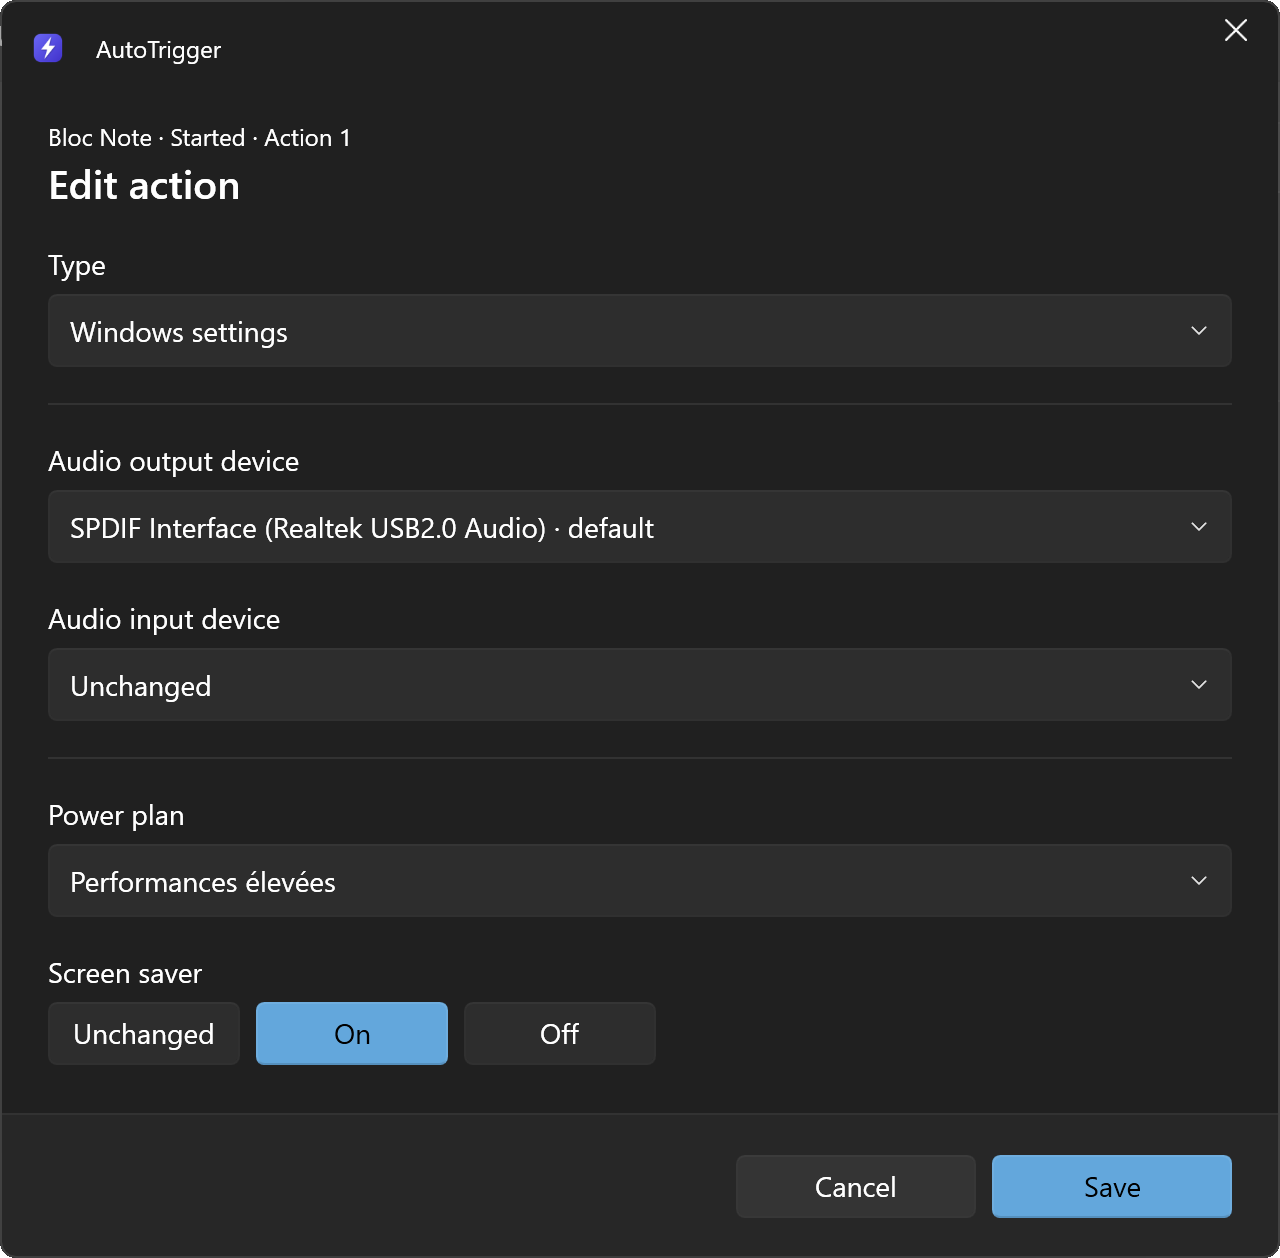
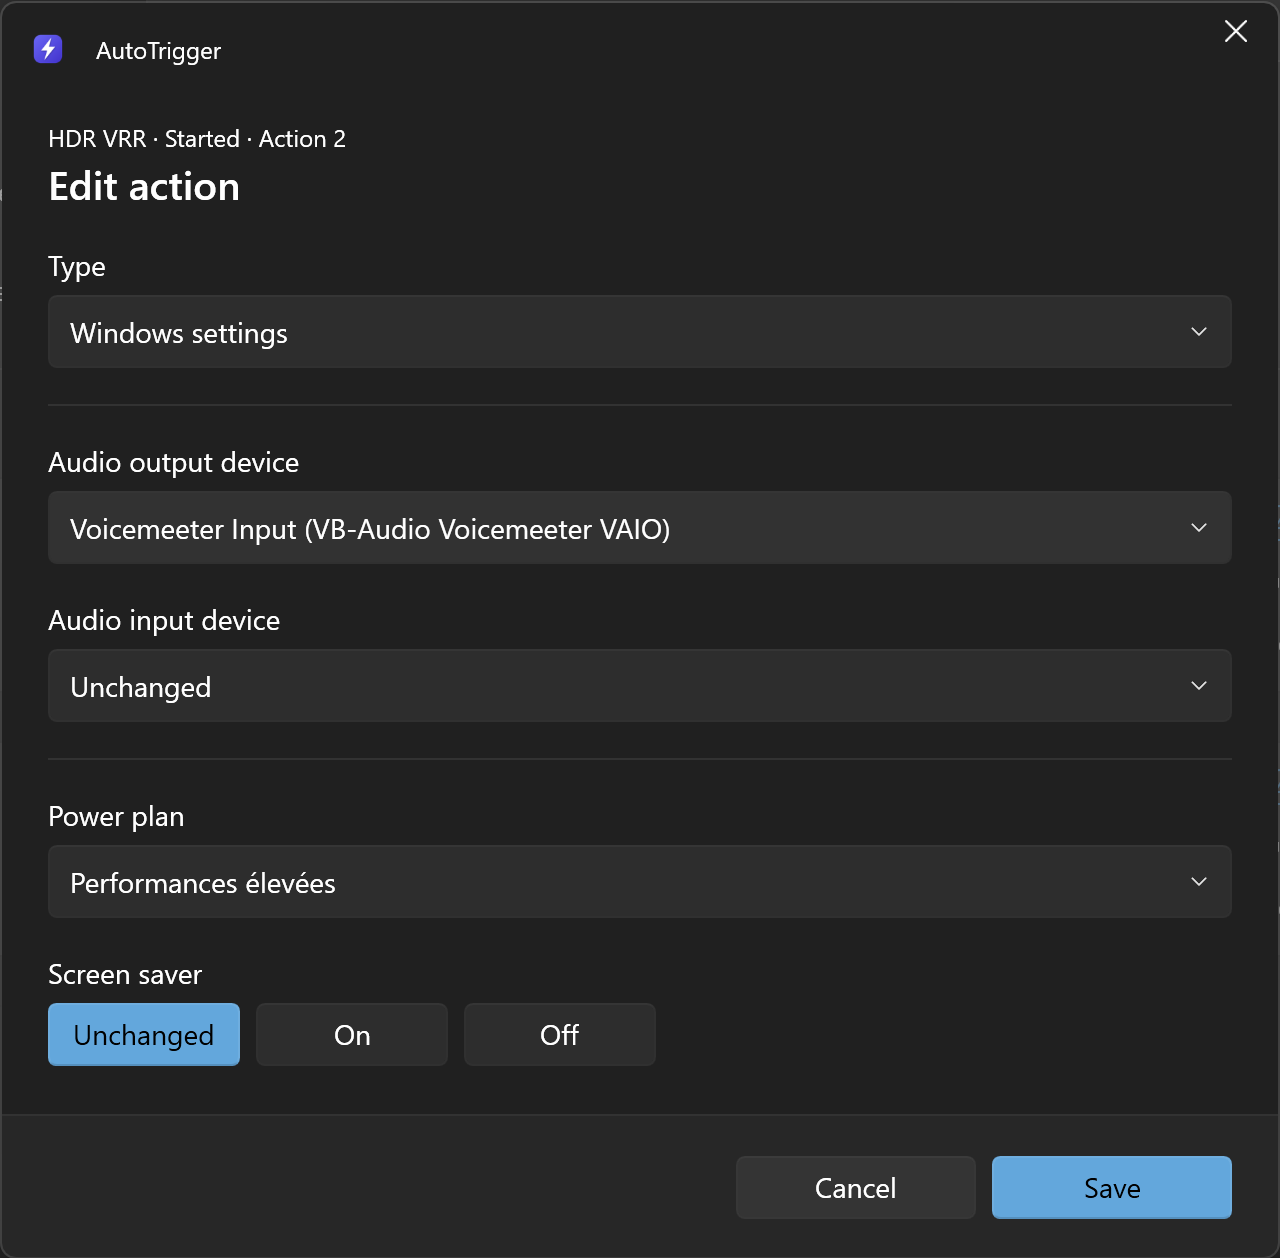
README: use cases, how actions run, FAQ, 1.4.0 screenshots

diff --git a/README.md b/README.md
@@ -1,17 +1,33 @@
 # AutoTrigger
 
-A Windows tray app that runs actions when an application starts, closes, gains or loses focus: switch HDR, change the resolution or refresh rate, pick the audio devices, change the power plan, run or close programs, or press a keyboard shortcut.
+**Automatic HDR, resolution, refresh rate and audio switching per game or app on Windows 10 and 11.**
 
-Inspired by [AutoActions](https://github.com/Codectory/AutoActions) by Codectory. Independent rewrite, not affiliated with Codectory or NVIDIA.
+AutoTrigger is a free, open-source tray app that changes Windows settings when a game or app starts, and sets them back when it closes. Turn HDR on for a game and off on the desktop, change the resolution or refresh rate, switch the default audio device, change the power plan, start or close other programs, or press a keyboard shortcut of another app.
+
+**An AutoActions alternative**: it imports the applications, profiles and displays of AutoActions in one step. Inspired by [AutoActions](https://github.com/Codectory/AutoActions) by Codectory; independent rewrite, not affiliated with Codectory or NVIDIA.
+
+<img src="images/profiles.png" alt="AutoTrigger Profiles page: a profile that turns HDR on with its Started actions and off with its Closed actions, each action with its delay">
+
+## Use cases
+
+- Turn HDR on automatically when a game starts, and off when it closes.
+- Use a different resolution or refresh rate for games and for the desktop, DSR and DLDSR included.
+- Switch the default audio output or input per game or app, for example to a headset.
+- Use the High performance power plan while a game, a video encoder or a 3D app runs, and a power saving plan afterwards.
+- Turn the screen saver off for games played with a controller.
+- Start helper programs before a game or app and close them after it.
+- Change settings when an app gains the focus, and set them back when you switch to another window.
+- Press a keyboard shortcut of another app when a game starts, for example to switch a mode in an overlay or a recording app.
+- Run the actions of a profile on demand, from a keyboard shortcut or a desktop shortcut, without waiting for an app to start.
 
 ## Features
 
 - Four events per application: Started, Closed, Gained focus, Lost focus.
 - Actions, each with its own delay:
   - **Display**: HDR, resolution, refresh rate and, on NVIDIA, color depth, format and range. Works with DSR and DLDSR.
-  - **Windows settings**: default audio output and input devices, power plan, and screen saver on or off for games played with a controller.
-  - **Run program**, with an option to hide the console window of command-line tools and scripts, and **Close program**.
-  - **Hotkey**: presses a keyboard shortcut of another program, such as an RTSS overlay.
+  - **Windows settings**: default audio output and input devices, power plan, and screen saver on or off.
+  - **Run program**, with options to hold the next actions until it finishes and to hide the console window of command-line tools and scripts, and **Close program**.
+  - **Hotkey**: presses a keyboard shortcut of another app.
   - **Reference profile**: reuses the actions of another profile.
 - An optional name for Run program, Close program and Hotkey actions, shown on the action card and in the log.
 - Shared profiles, a monitoring switch per application and a global pause.
@@ -22,19 +38,69 @@ Inspired by [AutoActions](https://github.com/Codectory/AutoActions) by Codectory
 - Update check: a link at the bottom of the window and a dot on the tray icon when a new version is out.
 - About 0.06 % of one CPU core while idle. No administrator rights. The only network access is the update check, which can be turned off.
 
-<img src="images/status.png" alt="Status">
+<img src="images/status.png" alt="AutoTrigger Status page: HDR and monitoring switches, current application and profile, list of followed applications">
 
-<img src="images/applications.png" alt="Applications">
+<img src="images/applications.png" alt="Applications page: each game or app with its profile and a monitoring switch">
 
-<img src="images/profiles.png" alt="Profiles">
+<img src="images/display-action.png" width="49%" align="top" alt="Display action: HDR on or off, resolution, refresh rate, color depth, format and range"> <img src="images/windows-settings-action.png" width="49%" align="top" alt="Windows settings action: default audio devices, power plan and screen saver">
 
-<img src="images/display-action.png" width="640" alt="Display action">
+<img src="images/run-program-action.png" width="49%" align="top" alt="Run program action: name, program, arguments and the option to hold the next actions until it finishes"> <img src="images/hotkey-action.png" width="49%" align="top" alt="Hotkey action: name and the keyboard shortcut to press">
 
-<img src="images/windows-settings-action.png" width="640" alt="Windows settings action">
+<img src="images/displays.png" alt="Displays page: each monitor with its resolution, refresh rate, color format and HDR state">
 
-<img src="images/displays.png" alt="Displays">
+<img src="images/settings.png" width="430" alt="Settings page: start with Windows, theme, log level, update check and import from AutoActions">
 
-<img src="images/settings.png" alt="Settings">
+## How actions run
+
+An event of an application, a keyboard shortcut or a command picks a profile; the actions of that event then run one after the other.
+
+```mermaid
+%%{init: {"theme": "base", "themeVariables": {"fontSize": "15px", "lineColor": "#8b949e", "textColor": "#8b949e", "titleColor": "#8b949e", "clusterBkg": "transparent", "clusterBorder": "#8b949e", "edgeLabelBackground": "#6e7681", "primaryTextColor": "#ffffff"}}}%%
+flowchart TB
+  app(["Application event<br/>Started, Closed, Gained focus, Lost focus"]) --> prof
+  key(["Keyboard shortcut or command line<br/>/started, /closed"]) --> prof
+  prof["Profile: the actions of that event"] --> a1
+  subgraph run ["Actions run in order"]
+    direction TB
+    a1["Display: HDR on"] -->|"delay"| ref
+    subgraph ref ["Reference profile: its actions are inserted here"]
+      direction TB
+      r1["Windows settings: audio and power plan"] --> r2["Run program, hold until it exits"]
+    end
+    ref -->|"program exited"| a3["Hotkey"] -->|"delay"| a4["Run program"]
+  end
+  classDef event fill:#8957e5,stroke:#8957e5,color:#ffffff
+  classDef profile fill:#6e7681,stroke:#6e7681,color:#ffffff
+  classDef action fill:#1f6feb,stroke:#1f6feb,color:#ffffff
+  class app,key event
+  class prof profile
+  class a1,r1,r2,a3,a4 action
+  style ref stroke-dasharray: 5 5
+```
+
+When each action starts, with the delay set on each one:
+
+```mermaid
+%%{init: {"theme": "base", "gantt": {"leftPadding": 190, "barHeight": 24, "barGap": 8}, "themeVariables": {"fontSize": "14px", "textColor": "#8b949e", "titleColor": "#8b949e", "sectionBkgColor": "transparent", "altSectionBkgColor": "transparent", "sectionBkgColor2": "transparent", "gridColor": "#8b949e", "taskBkgColor": "#1f6feb", "taskBorderColor": "#1f6feb", "taskTextColor": "#ffffff", "taskTextLightColor": "#ffffff", "taskTextOutsideColor": "#8b949e", "taskTextDarkColor": "#ffffff", "activeTaskBkgColor": "#6e7681", "activeTaskBorderColor": "#6e7681", "critBkgColor": "#8957e5", "critBorderColor": "#8957e5", "todayLineColor": "transparent"}, "themeCSS": ".grid .tick line { stroke: #8b949e; opacity: 0.35; } .grid path { stroke-width: 0; }"}}%%
+gantt
+  dateFormat X
+  axisFormat %-S s
+  section Display, delay 0
+    HDR on, 2 s : a1, 0, 2s
+  section Run program, delay 3 s
+    delay 3 s : active, d1, 0, 3s
+    runs, next actions held : a2, after d1, 5s
+  section Hotkey, delay 0
+    starts when the program exits : milestone, m1, after a2, 0s
+  section Run program, delay 2 s
+    delay 2 s : active, d2, after a2, 2s
+    runs : a4, after d2, 1s
+```
+
+- Each action waits for the previous one to finish, and its delay counts from the start of the previous action, not from its end: above, the 3 s delay of Run program begins with HDR on, so the program starts 1 s after the 2 s display change. With a delay of 0, an action starts as soon as the previous one has finished.
+- **Hold next actions until this program finishes** makes the next actions wait for that program to exit, 30 s at most by default (**Stop holding after**). A delay that has already passed when the program exits adds nothing: the next action starts at once.
+- **Reference profile** inserts the actions of another profile for the same event, with their delays, as if they were written in its place. References can be nested 8 levels deep.
+- When a profile starts, the profiles still running for another application or a keyboard shortcut finish their remaining actions at once, without their delays and holds, then the new profile runs. This waits 10 s at most.
 
 ## Requirements
 
@@ -50,7 +116,7 @@ Download the zip from the Releases page, extract it and run AutoTrigger.exe. The
 2. **Profiles**: add actions to each event, then assign the profile to applications.
 3. Leave AutoTrigger in the tray. Double-click opens it; right-click for Open, Pause, Start with Windows and Exit.
 
-<img src="images/menu.png" alt="Tray menu">
+<img src="images/menu.png" alt="Tray menu: Open, Pause, Start with Windows, Exit">
 
 ### Moving from AutoActions
 
@@ -88,6 +154,20 @@ To report a problem, set **Log level** to **Detailed** in Settings, reproduce it
 
 To uninstall, uncheck Start with Windows, choose Exit, then delete the AutoTrigger folder and `%LOCALAPPDATA%\AutoTrigger`.
 
+## FAQ
+
+**How do I turn HDR on automatically for one game?** Add the game in **Applications**, give it a profile with a **Display** action set to HDR on in **Started** and HDR off in **Closed**.
+
+**Is this Windows Auto HDR?** No. Windows Auto HDR adds HDR to SDR games while HDR is already on. AutoTrigger turns HDR itself on and off, per game. Both can be used together.
+
+**Does it work with Steam, Epic Games, GOG, Game Pass or emulators?** Yes. AutoTrigger follows the game's own program, whatever launched it. For Game Pass games, choose **File name only**.
+
+**Can I run a profile without waiting for an app to start?** Yes. Give the profile a keyboard shortcut, or run `AutoTrigger.exe /started "Profile name"` or `/closed "Profile name"`, for example from a desktop shortcut. A **Run program** action in the profile can then start the program itself.
+
+**Does it need administrator rights?** No.
+
+**Can I keep my AutoActions setup?** Yes, see [Moving from AutoActions](#moving-from-autoactions).
+
 ## Build
 
 Visual Studio 2026 with the **.NET desktop development** workload, from a Developer Command Prompt:
@@ -101,8 +181,6 @@ The program is written to `out\Release`. [WPF UI](https://github.com/lepoco/wpfu
 ## How it works
 
 - **Starts**: the process list is read every 500 ms with `NtQuerySystemInformation`. **Closes**: signaled by Windows. **Focus**: a `WinEvent` hook; a change must last 300 ms. For Windows Store apps, the app inside the `ApplicationFrameHost` frame is used.
-- The actions of an event run one after the other; a delay counts from the start of the previous action.
-- When a profile starts, the profiles still running for another application or a keyboard shortcut finish their remaining actions at once, without their delays, then the new profile runs. This waits 10 s at most.
 - **Display**: resolution with `SetDisplayConfig` and GPU scaling, HDR with `DisplayConfigSetDeviceInfo`, NVIDIA color with NVAPI. Only what differs is changed, and a failed step undoes the previous ones.
 - **Windows settings** sets the default audio devices and uses `PowerSetActiveScheme` for the power plan. The screen saver is changed for the current session only, and turned back on when AutoTrigger exits. **Hotkey** uses `SendInput`.
 - Keyboard shortcuts use `RegisterHotKey`. The command line talks to the running AutoTrigger through a local named pipe open to the current user only.
